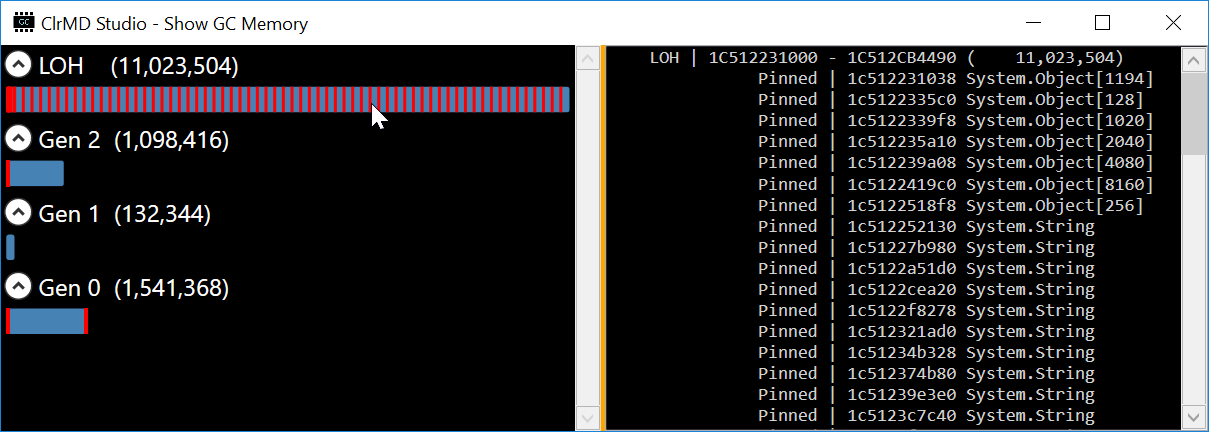
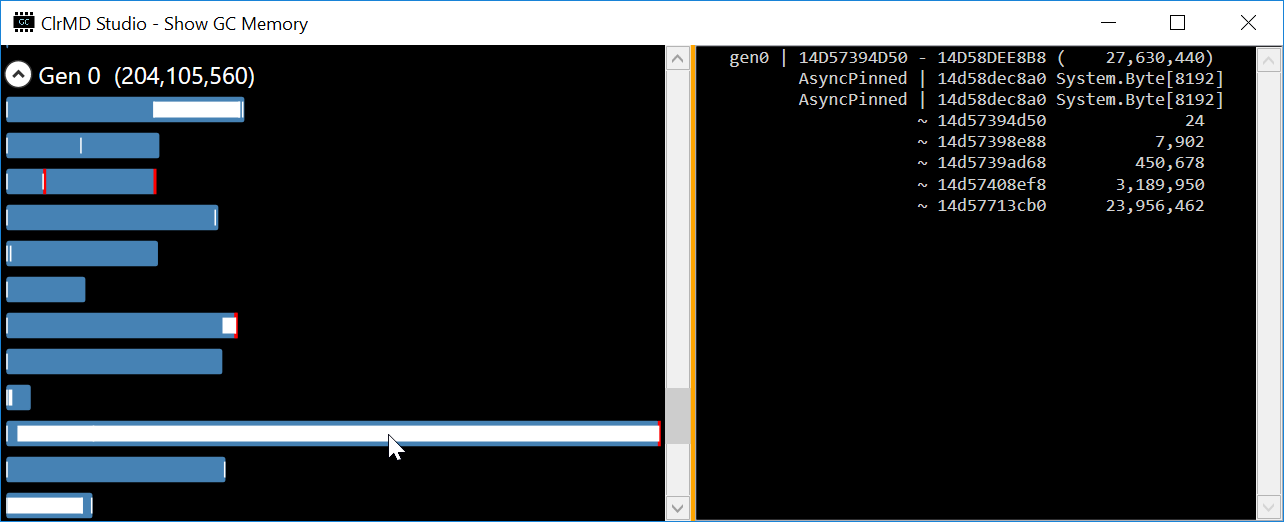
Update documentation related to free blocks in GC analysis

Changed region(s): [[0.0, 0.0, 1.0, 1.0]]

diff --git a/Documentation/ClrMDStudio.md b/Documentation/ClrMDStudio.md
@@ -10,7 +10,7 @@ and to run a few analyzers:
 
 ## GC Memory
 ![GCMemory_Analysis](./ShowGCMemory.png)
-Show the layout of the different segments managed by the Garbage Collector and highlight the pinned objects. Click one segment on the left pane to get the details in the right  pane including the type name of the pinned objects with the array length if needed..
+Show the layout of the different segments managed by the Garbage Collector and highlight the pinned objects in red and the free blocks in white. Click one segment on the left pane to get the details in the right  pane including the type name of the pinned objects with the array length if needed and the list of free blocks.
 
 
 ## Pinned Objects
